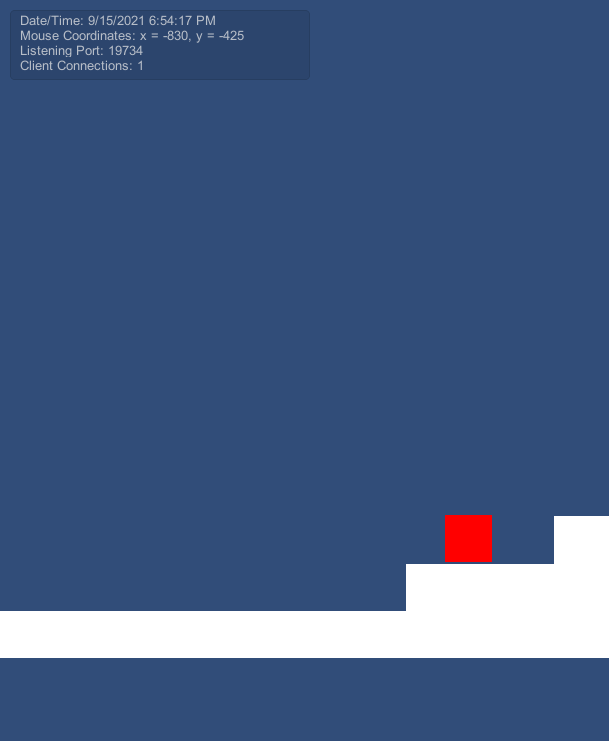
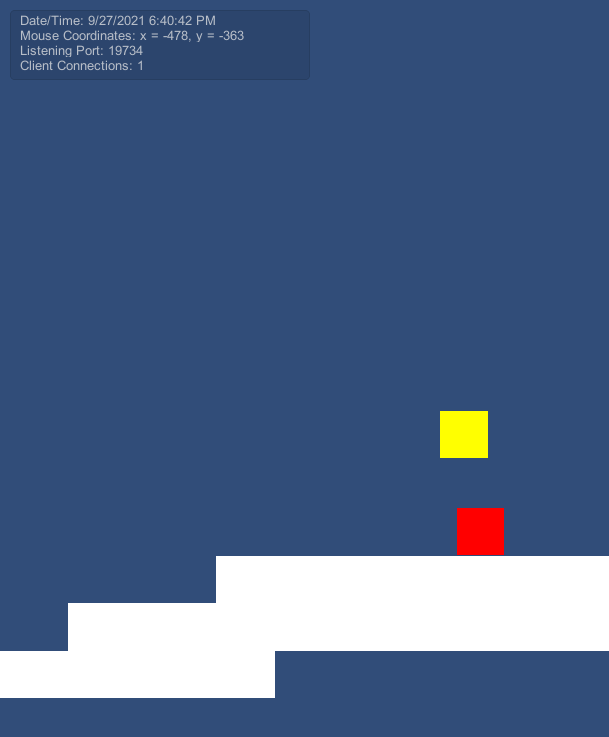
The way I should have written it from the start.
see CHANGELOG.md

diff --git a/src/gdio/Client.py b/src/gdio/Client.py
@@ -1,11 +1,14 @@
-from . import Requests, Objects, Responses, Exceptions, Serializers
+from . import Requests, Objects, Responses, Exceptions, Serializers, Events
 
 import asyncio, socket
 import msgpack, uuid
-import time
+import datetime, time
 from binascii import crc32
 
 BYTE_ORDER = 'little'
+
+def isEvent(msg):
+    return True if msg.GDIOMsg.GetName()[len('Event'):] == 'Event' else False
 
 class Client:
     def __init__(self, hostname, port, connectionTimeout):
@@ -26,8 +29,8 @@ class Client:
         self.EventHandlers : ['RequestId'] = []
         self.EventCollection : ['EventId'] = []
         self.Results : {'CorrelationId' : 'GDIOMsg'} = {}
+        self.LastEvent : {'eventType' : 'Timestamp'} = {}
         
-
         self.GCD = None
 
     async def ReadHandler(self, reader=None):
@@ -53,7 +56,7 @@ class Client:
                 #print(unpacked)
                 
                 msg = Objects.ProtocolMessage(**unpacked)
-                self.ProcessMessage(msg)
+                await self.ProcessMessage(msg)
             except ValueError:
                 pass
 
@@ -67,51 +70,67 @@ class Client:
         if eventId in self.EventCollection:
             del self.EventCollection[eventId]
     
-    def ProcessMessage(self, msg):
-        # TODO: Reconstruct GDIOMsg
+    async def ProcessMessage(self, msg):
         # TODO: GDIOMsg.GetName()
-        print('processmessage')
-        for key, value in Requests.CmdIds:
-            print(f'{key} : {value}')
+        for key, value in Requests.CmdIds.items():
+            await asyncio.sleep(0)
+            if msg.GDIOMsg[0] == 80:
+                msg.GDIOMsg = Events.EmptyInput
+                self.SetEventTimestamp(Events.EmptyInput)
+                break
             if value == msg.GDIOMsg[0]:
-                gdioMsg = eval(f'Requests.{key})')(msg.GDIOMsg[1])
+                msg.GDIOMsg = eval(f'Responses.{key}(**msg.GDIOMsg[1])')
+                break
                 
-        print(f'[RECV] Command: {msg.CorrelationId}')
+        print(f'[RECV] Command: {msg.GDIOMsg}')
         if self._currentHandshakeState != Objects.HandshakeState.COMPLETE:
-            if isinstance(gdioMsg, Requests.HandshakeRequest):
+            if not isinstance(msg.GDIOMsg, Responses.HandshakeResponse):
                 print(f'Dropping message before handshake is complete')
                 return
             elif self._currentHandshakeState == Objects.HandshakeState.CLIENT_INFORMATION_SENT:
-                if gdioMsg.RC == Objects.HandshakeReasonCode.OK:
-                    self.GCD = Responses.HandshakeResponse(**gdioMsg).GCD
+                if msg.GDIOMsg.RC == Objects.HandshakeReasonCode.OK:
+                    self.GCD = msg.GDIOMsg.GCD
                     self._currentHandshakeState = Objects.HandshakeState.COMPLETE
                     print('Handshake Complete')
                 else:
-                    print(f'Handshake Failed: {Responses.HandshakeResponse(**gdioMsg).RC}')
+                    print(f'Handshake Failed: {msg.GDIOMsg.RC}')
                 return
-            raise Exceptions.CorruptedHandshakeException
+            raise Exceptions.CorruptedHandshakeError
             
+        self.Results.update({msg.CorrelationId : msg.GDIOMsg})
         print(f'Registering Response: {msg.CorrelationId}')
         # NOTE: `dict.update()` will overwrite the value of overlapping keys
-        self.Results.update(
-            {msg.CorrelationId : msg.GDIOMsg}
-        )
+        
 
     async def GetResult(self, requestId):
         value = None
         while not requestId in self.Results:
             await asyncio.sleep(0)
         try:
-            value = self.Results[requestId][1]
+            value = self.Results[requestId]
         except KeyError:
             pass
         else:
             del self.Results[requestId]
             del self.EventHandlers[requestId]
         finally:
-            print(self.Results)
-            print(self.EventHandlers)
             return value
+
+    def GetLastEventTimestamp(self, eventType):
+        if eventType in self.LastEvent:
+            return self.LastEvent[eventType]
+        return 0
+
+    def SetEventTimestamp(self, eventType):
+        self.LastEvent.update(
+            {eventType : datetime.datetime.now().timestamp()}
+        )
+
+    async def WaitForEmptyInput(self):
+        print('Waiting for empty input')
+        while (self.GetLastEventTimestamp(Events.EmptyInput) >= datetime.datetime.now().timestamp()) != True:
+            await asyncio.sleep(0)
+        return True
 
     async def SendMessage(self, obj, writer=None):
 
@@ -121,7 +140,7 @@ class Client:
             obj.RequestId = str(uuid.uuid4())
 
         self.EventHandlers.append(obj.RequestId)
-        print(f'Sending: {obj.toDict()}')
+        print(f'Sending: {obj.pack()}')
         print(f'RequestId: {obj.RequestId} is waiting for a result.\n')
 
         await self.WriteMessage(obj, writer)

diff --git a/TestScript.py b/TestScript.py
@@ -1,6 +1,7 @@
-import asyncio
+import os, asyncio
 from gdio.ApiClient import ApiClient
 
+# TODO: Pytest Fixture
 class TestFixture:
 
     def __init__(self):
@@ -14,9 +15,12 @@ class TestFixture:
         
         ## <Test Methods>
         await self.api.Wait(200)
-        await self.test_Screenshot(r'C:\Users\ethan\source\repos\GDIO-py\before.png')
+        await self.test_Screenshot(f'{os.getcwd()}\\before.png')
+        await self.api.EnableHooks()
         await self.test_Movement()
-        await self.test_Screenshot(r'C:\Users\ethan\source\repos\GDIO-py\after.png')
+        await self.api.WaitForEmptyInput(5)
+        await self.api.DisableHooks()
+        await self.test_Screenshot(f'{os.getcwd()}\\after.png')
         await self.api.Wait(200)
         ## </Test Methods>
 
@@ -26,15 +30,14 @@ class TestFixture:
         await self.api.CaptureScreenshot(path, False, True)
 
     async def test_Movement(self):
-        await self.api.EnableHooks()
         await self.api.AxisPress('Horizontal', 1.0, 500)
         await self.api.Wait(200)
         await self.api.ButtonPress('Jump', 100)
         await self.api.Wait(700)
         await self.api.ButtonPress('Jump', 100)
-        await self.api.DisableHooks()
 
     async def test_CallMethod(self):
+        # Unused
         await self.api.CallMethod("//*[@name='Player']/fn:component('CustomScript')", "CustomMethod", { "string:The Test was run"})
 
     async def Disconnect(self):
@@ -43,7 +46,5 @@ class TestFixture:
 if __name__ == '__main__':
     Game = TestFixture()
     loop = asyncio.get_event_loop()
-    loop.run_until_complete(
-        Game.Connect()
-    )
+    loop.run_until_complete(Game.Connect())
     

diff --git a/src/gdio/ApiClient.py b/src/gdio/ApiClient.py
@@ -104,8 +104,7 @@ class ApiClient:
 
         # Recieve the response message and save its contained GDIOMsg.
         #response = Responses.GetObjectValueResponse(**Objects.getGDIOMsgData(await self.client.Recieve()))
-        result = await self.client.GetResult(requestInfo.RequestId)
-        response = Responses.GetObjectValueResponse(**result)
+        response = await self.client.GetResult(requestInfo.RequestId)
 
         # If the response is an error, warning, or information message,
         if response.RC != 0:
@@ -145,8 +144,7 @@ class ApiClient:
 
         # Recieve the response message and save its contained GDIOMsg.
         #response = Responses.CaptureScreenshotResponse(**Objects.getGDIOMsgData(await self.client.Recieve()))
-        result = await self.client.GetResult(requestInfo.RequestId)
-        response = Responses.CaptureScreenshotResponse(**result)
+        response = await self.client.GetResult(requestInfo.RequestId)
         
         # If the response is an Error,
         if response.RC == 2:
@@ -497,7 +495,9 @@ class ApiClient:
         # TODO: return scene name if RC==OK
         return True
 
-    
+    async def WaitForEmptyInput(self, timeout : int = 30) -> bool:
+        await asyncio.wait_for(self.client.WaitForEmptyInput(), timeout)
+
 
     async def Wait(self, miliseconds : int) -> None:
         time.sleep(miliseconds * 0.001)

diff --git a/src/gdio/Objects.py b/src/gdio/Objects.py
@@ -32,6 +32,10 @@ class HandshakeReasonCode(IntEnum):
 class Message:
     def __init__(self):
         pass
+
+    def GetName(self):
+        return f'{self.__class__.__name__}'
+
     def pack(self):
         return [Requests.CmdIds[self.__class__.__name__], vars(self)]
 
@@ -51,9 +55,6 @@ class ProtocolMessage:
         self.GDIOMsg = GDIOMsg
         self.IsAsync = IsAsync
         self.Timestamp : msgpackTime = msgpackTime(*stampify(datetime.datetime.now())) if Timestamp == None else Timestamp
-
-    def toDict(self):
-        return vars(self)
     
     def pack(self):
         return {
@@ -66,7 +67,7 @@ class ProtocolMessage:
         }
 
     def __repr__(self):
-        return f'{self.toDict()}'
+        return f'{self.pack()}'
 
 class RequestInfo:
     def __init__(self, client, requestId, sentTimestamp):
@@ -116,8 +117,3 @@ class MouseButtons(IntEnum):
 
 class Collision:
     pass
-
-# TODO: This method shouldnt be here
-def getGDIOMsgData(message : ProtocolMessage):
-    # TODO: collect CmdIDs somewhere to rebuild MSGs into classes
-    return message['GDIOMsg'][1]

diff --git a/src/gdio/Exceptions.py b/src/gdio/Exceptions.py
@@ -14,5 +14,8 @@ class CallMethodError(Exception):
 class CaptureScreenshotError(Exception):
     pass
 
-class CorruptedHandshakeException(Exception):
+class CorruptedHandshakeError(Exception):
+    pass
+
+class UnmatchedEventError(Exception):
     pass

diff --git a/src/gdio/Responses.py b/src/gdio/Responses.py
@@ -69,7 +69,7 @@ class CaptureScreenshotResponse(GenericResponse):
 
 
 
-class HandshakeResponse(GenericResponse):
+class HandshakeResponse:
     def __init__(self,
             ReceivedTimestamp,
             RC,

diff --git a/src/gdio/Events.py b/src/gdio/Events.py
@@ -1,0 +1,4 @@
+from .Objects import Message
+
+class EmptyInput:
+    pass

diff --git a/CHANGELOG.md b/CHANGELOG.md
@@ -1,11 +1,36 @@
 # Changelog
 
 ## Upcoming
+ - pending
+
+## 9-27-2021
+This version reworked how messages are packed and unpacked. It also introduces a bug surrounding `ApiClient.WaitForEmptyInput()` where the method will just time out if the EmptyInput arrives before the method call. Otherwise, I'm happy with the overall structure for now. Next version will probably be focused on unit testing using PyTest; that way I can prove functionality across different platforms.
+
+### Added:
+ - `ApiClient.WaitForEmptyInput()` that waits until an EmptyInput Event is received.
+ - Custom serializers in the [`Serializers.py`](src/gdio/Serializers.py) file.
+    - This handles the standard object representations of message objects like `toDict()` and `toList()` used to by invoking the object's`.pack()` method.
+    - This is also important to have when I eventually get to implementing arguments in `ApiClient.CallMethod()`
+ - [`Events.py`](src/gdio/Events.py) to keep event message definitions.
+ - `Message.GetName()` that returns a string representation of the class name.
+    - Used in `Client.ProcessMessage()` in order to rebuild responses and do message-type-specific actions.
+ - [`requirements_dev.txt`](requirements_dev.txt) holding packages useful to development but not to an end user.
+    - Amended [`setup.cfg`](setup.cfg) appropriately.
+    - Added [`py.typed`](src/gdio/py.typed) to comply with the [`flake8`](https://github.com/pycqa/flake8) style checker.
+ 
+
+### Changed:
+ - Moved message IDs outside the message class and into a dict *currently being stored in [`Requests.py`](src/gdio/Requests.py)*.
+    - This allows for turning response messages back into message objects by looking up their stored ID.
+ - Replaced the behavior of `toDict()` and `toList()` with `pack()` in both the `ProtocolMessage` and `Message` classes. 
+
+### Removed:
+ - `Objects.getGDIOMsgData()` that hasn't been used in a few versions because it was mostly used in patchwork functionality.
 
 ## 9-19-2021
 
 ### Changed:
- - added an extra check and retry loop in `Client.GetResult()`
+ - Added an extra check and retry loop in `Client.GetResult()`
     - this has seemingly fixed the main issues from last version.
 
 ## 9-18-2021
